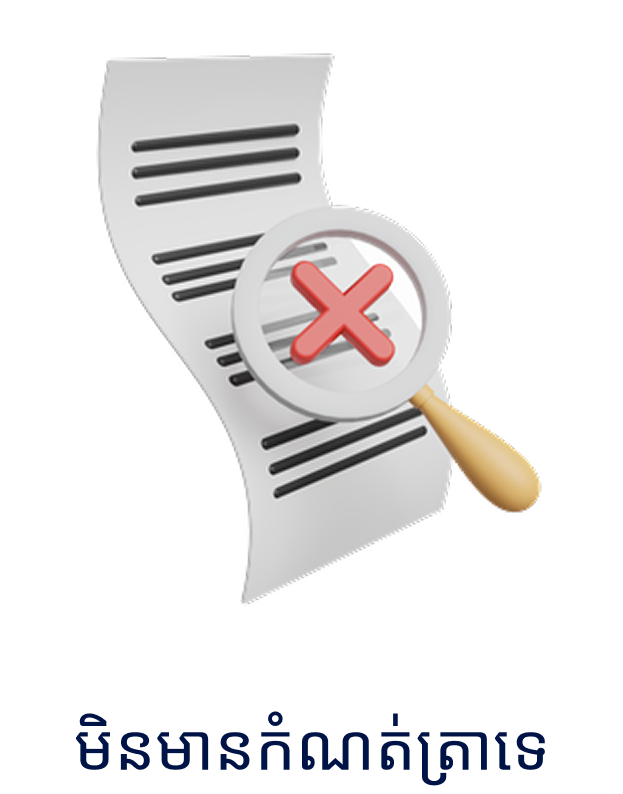
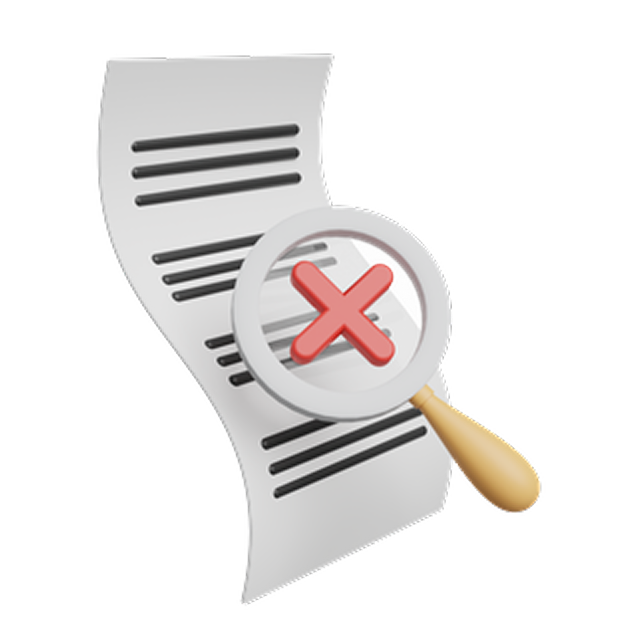
add text further date for Attendance page

Changed region(s): [[0.122, 0.1518, 0.8844, 1.0], [0.1525, 0.0607, 0.549, 0.1821]]

diff --git a/src/app/attendance/page.tsx b/src/app/attendance/page.tsx
@@ -66,7 +66,7 @@ export default function AttendancePage() {
 
 	return (
 		<>
-			<div className="relative bg-white dark:bg-[#001346] pb-[45px]">
+			<div className="relative bg-white dark:bg-[#001346] pb-[60px]">
 				<div className="p-6">
 					<div className="calendar-container overflow-y-auto max-h-[calc(100vh-6rem)]">
 						<FullCalendar
@@ -191,6 +191,7 @@ export default function AttendancePage() {
 														alt="Future"
 														className="mx-auto h-24 pb-[20px] object-contain"
 													/>
+													<p className="mt-2 text-[#001346] dark:text-white text-sm">មិនមានកំណត់ត្រាទេ</p>
 												</td>
 											</tr>
 										)}

diff --git a/src/app/profile/page.tsx b/src/app/profile/page.tsx
@@ -37,7 +37,7 @@ export default function ProfilePage() {
 		<>
 			<main className="p-4 pb-20 space-y-4">
 				<div className="max-w-md mx-auto">
-					<h2 className="text-[26px] font-[600] text-center mb-4 text-[#001346] dark:text-white">ប្រវត្តិរូប</h2>
+					<h2 className="text-[26px] font-[600] text-center mb-4 text-[#001346] dark:text-white">ការកំណត់</h2>
 					<p className="text-[#001346] dark:text-white mb-2">
 						<span className="text-[16px] font-[400] leading-normal">ជំរាបសួរ</span><br />
 						<span className="italic text-[26px] font-[600]">ទេព វណ្ណា</span>
